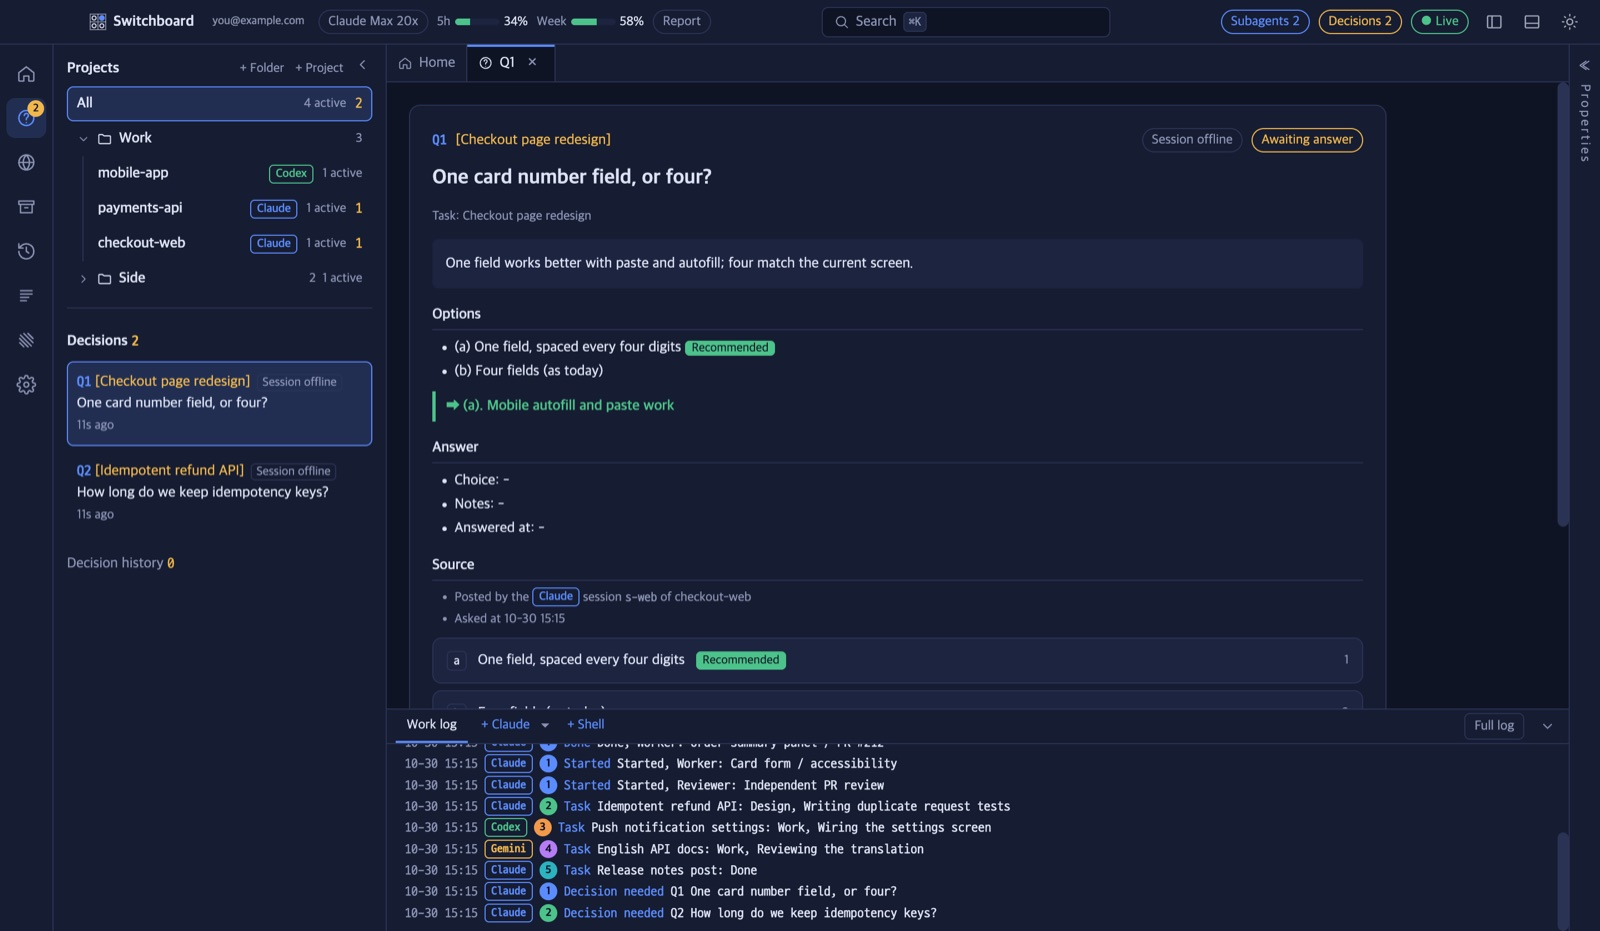
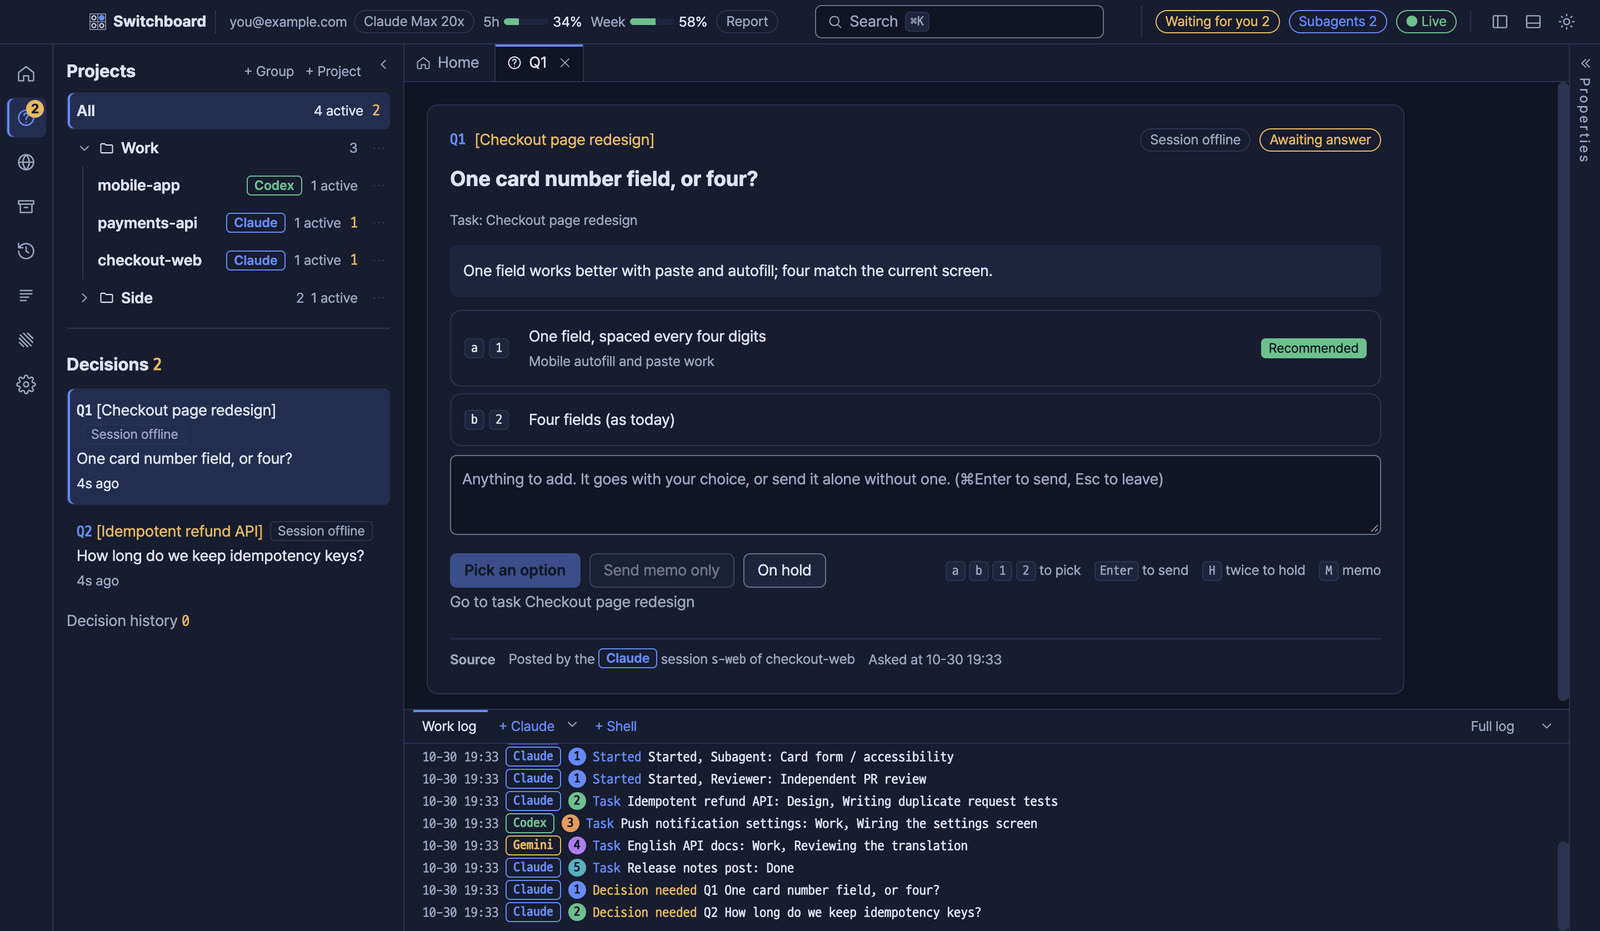
README 스크린샷을 새 화면으로 바꾸고 되돌리기와 단축키 목록을 적음

diff --git a/README.en.md b/README.en.md
@@ -45,7 +45,7 @@ In Switchboard, a session posts its question to a decision queue and keeps worki
 <tr>
 <td width="50%" valign="top">
 <h3>🗳 Decide with one key</h3>
-Sessions post options, a recommendation and the reason for it. Pick with <code>a</code>, <code>b</code> and send with <code>Enter</code>. You can also hold a question or answer with a note.
+Sessions post options, a recommendation and the reason for it. Pick with <code>a</code>, <code>b</code> and send with <code>Enter</code>. You can also hold a question or answer with a note. You can take an answer back within 5 seconds of sending it.
 </td>
 <td width="50%" valign="top">
 <h3>📊 Stages and a live progress graph</h3>
@@ -143,6 +143,7 @@ Add any other CLI in Settings > Agent CLIs with its command and how it connects.
 | `H` twice | Hold |
 | `M` | Add a note (`Cmd+Enter` sends, `Esc` leaves) |
 | `Cmd+K` (`Ctrl+K` on Windows and Linux) | Find |
+| `?` or `Cmd+/` | Shortcut list |
 
 ## Install
 
